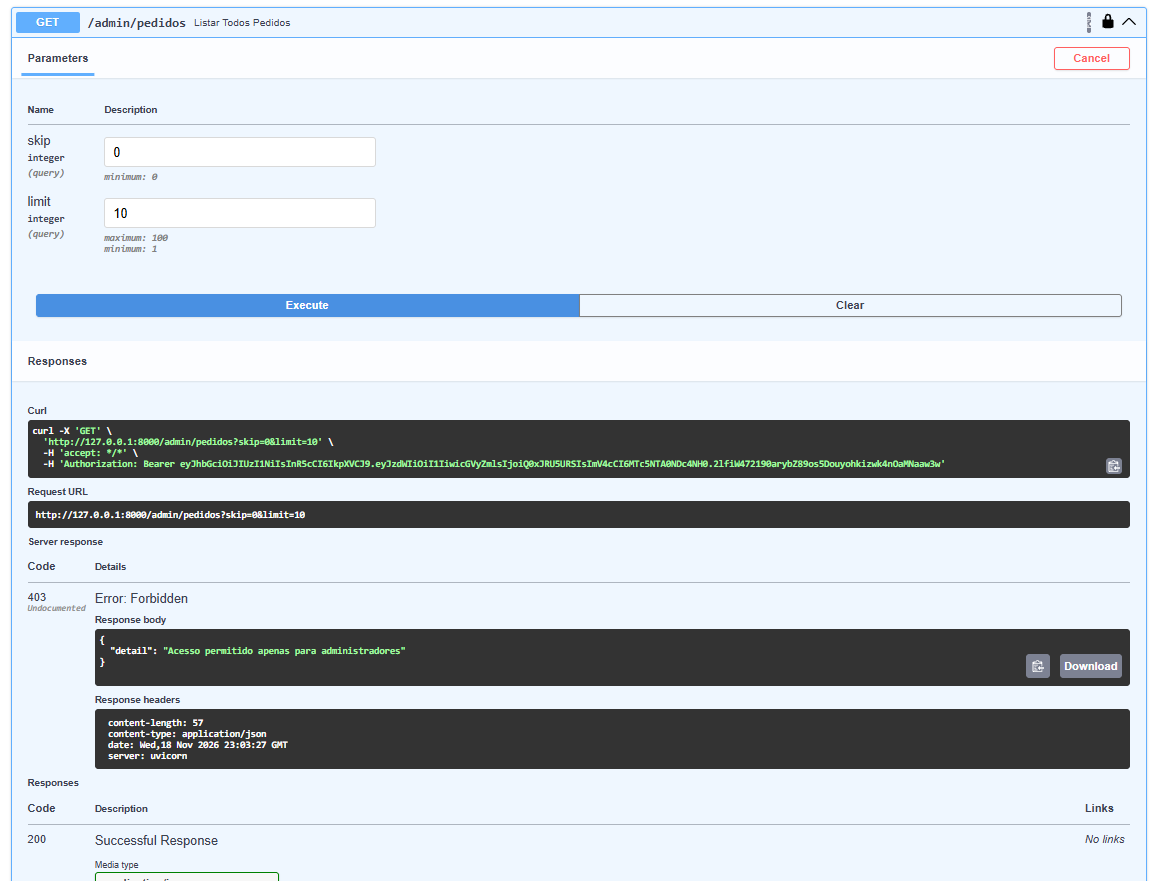
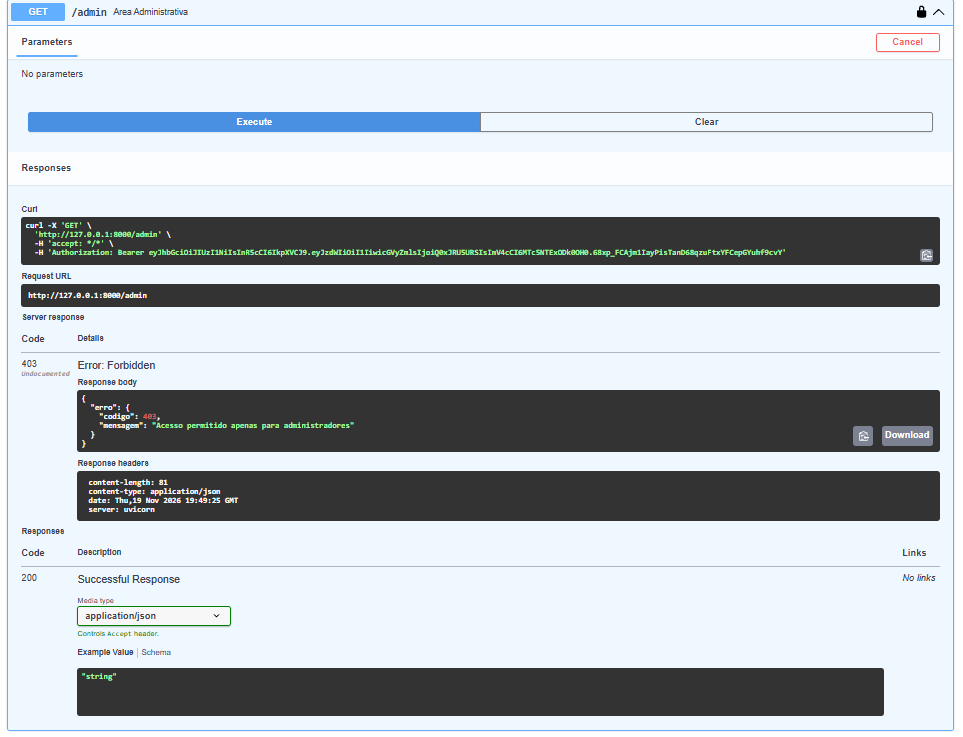
Padronizacao de erros e atualizacao das evidencias de testes

diff --git a/app/main.py b/app/main.py
@@ -22,7 +22,31 @@ app = FastAPI(
     version="1.0.0"
 )
 
+@app.exception_handler(HTTPException)
+def tratar_erro_http(request, exc: HTTPException):
+    return JSONResponse(
+        status_code=exc.status_code,
+        content={
+            "erro": {
+                "codigo": exc.status_code,
+                "mensagem": exc.detail
+            }
+        },
+        headers=exc.headers
+    )
 
+@app.exception_handler(RequestValidationError)
+def tratar_erro_validacao(request, exc: RequestValidationError):
+    return JSONResponse(
+        status_code=422,
+        content={
+            "erro": {
+                "codigo": 422,
+                "mensagem": "Erro de validação dos dados enviados",
+                "detalhes": exc.errors()
+            }
+        }
+    )
 
 
 Base.metadata.create_all(bind=engine)
@@ -831,16 +855,16 @@ def cadastrar_pedido(
         models.Produto.id.in_([item.produto_id for item in dados.itens])
     ).all()
 
-    if len(dados.itens) != len(produtos):
-        raise HTTPException(
-            status_code=404,
-            detail="Um ou mais produtos não encontrados"
-        )
-
     if len(dados.itens) != len(set(item.produto_id for item in dados.itens)):
         raise HTTPException(
             status_code=400,
             detail="Produtos duplicados no pedido"
+        )
+
+    if len(dados.itens) != len(produtos):
+        raise HTTPException(
+            status_code=404,
+            detail="Um ou mais produtos não encontrados"
         )
 
     if any(produto.unidade_id != dados.unidade_id for produto in produtos):

diff --git a/testes api/teste_api.md b/testes api/teste_api.md
@@ -1,0 +1,255 @@
+# Registro de Testes de API — Raízes do Nordeste
+
+## Teste 1 — Login válido de cliente
+
+- **Objetivo:** Verificar se um cliente consegue realizar login com credenciais válidas.
+- **Endpoint:** POST /login
+- **Autenticação:** Não exige token.
+- **Dados utilizados:** E-mail e senha válidos de uma conta CLIENTE.
+- **Resultado esperado:** HTTP 200 e retorno de um token de acesso.
+- **Resultado obtido:** HTTP 200 e retorno dos campos access_token e token_type.
+- **Status:** APROVADO.
+- **Evidência:**
+
+ ![Login Cliente.png](resultados%20api/Login%20Cliente.png)
+
+## Teste 2 — Consulta aos dados do cliente
+
+- **Objetivo:** Verificar se o cliente autenticado consegue consultar seus próprios dados.
+- **Endpoint:** GET /usuarios/me
+- **Autenticação:** Token CLIENTE.
+- **Dados utilizados:** Token válido de uma conta CLIENTE.
+- **Resultado esperado:** HTTP 200 e retorno dos dados do usuário autenticado.
+- **Resultado obtido:** HTTP 200.
+- **Status:** APROVADO.
+- **Evidência:** 
+
+![Consulta do cliente.png](resultados%20api/Consulta%20do%20cliente.png)
+
+## Teste 3 — Consulta às unidades
+
+- **Objetivo:** Verificar se qualquer usuário consegue consultar as unidades cadastradas.
+- **Endpoint:** GET /unidades
+- **Autenticação:** Pública, sem token.
+- **Dados utilizados:** Requisição sem parâmetros obrigatórios.
+- **Resultado esperado:** HTTP 200 e lista de unidades cadastradas.
+- **Resultado obtido:** HTTP 200.
+- **Status:** APROVADO.
+- **Evidência:** 
+
+![Consulta as unidades.png](resultados%20api/Consulta%20as%20unidades.png)
+
+## Teste 4 — Consulta aos produtos
+
+- **Objetivo:** Verificar se qualquer usuário consegue consultar os produtos de uma unidade.
+- **Endpoint:** GET /produtos
+- **Autenticação:** Pública, sem token.
+- **Dados utilizados:** ID de uma unidade cadastrada.
+- **Resultado esperado:** HTTP 200 e lista de produtos da unidade.
+- **Resultado obtido:** HTTP 200.
+- **Status:** APROVADO.
+- **Evidência:** 
+
+![Lista de produtos.png](resultados%20api/Lista%20de%20produtos.png)
+
+## Teste 5 — Consulta aos detalhes de um produto
+
+- **Objetivo:** Verificar se qualquer usuário consegue consultar os detalhes de um produto cadastrado.
+- **Endpoint:** GET /produtos/{produto_id}
+- **Autenticação:** Pública, sem token.
+- **Dados utilizados:** ID de um produto cadastrado.
+- **Resultado esperado:** HTTP 200 e os dados do produto selecionado.
+- **Resultado obtido:** HTTP 200.
+- **Status:** APROVADO.
+- **Evidência:** 
+
+![Busca de produtos.png](resultados%20api/Busca%20de%20produtos.png)
+
+## Teste 6 — Cadastro de pedido válido
+
+- **Objetivo:** Verificar se um cliente autenticado consegue registrar um pedido com produto disponível e estoque suficiente.
+- **Endpoint:** POST /pedidos
+- **Autenticação:** Token CLIENTE.
+- **Dados utilizados:** Unidade 1, produto 1, quantidade 1 e canal APP.
+- **Resultado esperado:** HTTP 201 e confirmação da criação do pedido.
+- **Resultado obtido:** HTTP 201.
+- **Status:** APROVADO.
+- **Evidência:** 
+
+![Cadastro de pedido.png](resultados%20api/Cadastro%20de%20pedido.png)
+
+## Teste 7 — Login de cliente com senha incorreta
+
+- **Objetivo:** Verificar se a API rejeita tentativas de login com senha inválida.
+- **Endpoint:** POST /login
+- **Autenticação:** Pública, sem token.
+- **Dados utilizados:** E-mail válido de cliente e senha incorreta.
+- **Resultado esperado:** HTTP 401, indicando credenciais inválidas.
+- **Resultado obtido:** HTTP 401.
+- **Status:** APROVADO.
+- **Evidência:**
+
+ ![Login cliente com senha incorreta.png](resultados%20api/Login%20cliente%20com%20senha%20incorreta.png)
+
+## Teste 8 — Acesso sem token de autenticação
+
+- **Objetivo:** Verificar se a API bloqueia o acesso de usuários não autenticados a uma rota protegida.
+- **Endpoint:** GET /usuarios/me
+- **Autenticação:** Nenhum token enviado.
+- **Dados utilizados:** Requisição sem credenciais de autenticação.
+- **Resultado esperado:** HTTP 401, indicando acesso não autorizado.
+- **Resultado obtido:** HTTP 401.
+- **Status:** APROVADO.
+- **Evidência:** 
+
+![Acesso sem token.png](resultados%20api/Acesso%20sem%20token.png)
+
+## Teste 9 — Cliente tentando acessar rota administrativa
+
+- **Objetivo:** Verificar se um usuário CLIENTE é impedido de acessar recursos exclusivos do ADMIN.
+- **Endpoint:** GET /admin/pedidos
+- **Autenticação:** Token CLIENTE.
+- **Dados utilizados:** Token válido de uma conta CLIENTE.
+- **Resultado esperado:** HTTP 403, indicando acesso proibido.
+- **Resultado obtido:** HTTP 403.
+- **Status:** APROVADO.
+- **Evidência:**
+
+ ![Acesso admin com cliente.png](resultados%20api/Acesso%20admin%20com%20cliente.png)
+
+## Teste 10 — Cadastro de pedido com quantidade inválida
+
+- **Objetivo:** Verificar se a API rejeita pedidos com quantidade igual a zero.
+- **Endpoint:** POST /pedidos
+- **Autenticação:** Token CLIENTE.
+- **Dados utilizados:** Unidade 1, produto 1, quantidade 0 e canal APP.
+- **Resultado esperado:** HTTP 422, indicando erro de validação.
+- **Resultado obtido:** HTTP 422.
+- **Status:** APROVADO.
+- **Evidência:**
+
+ ![Quantidade invalida.png](resultados%20api/Quantidade%20invalida.png)
+
+## Teste 11 — Pedido com produto inexistente
+
+- **Objetivo:** Verificar se a API rejeita pedidos com a id de um produto inexistente.
+- **Endpoint:** POST /pedidos
+- **Autenticação:** Token CLIENTE.
+- **Dados utilizados:** Unidade 1, produto 99999, quantidade 1 e canal APP.
+- **Resultado esperado:** HTTP 404, indicando produto não encontrado.
+- **Resultado obtido:** HTTP 404.
+- **Status:** APROVADO.
+- **Evidência:**
+
+ ![Pedido com produto inexistente.png](resultados%20api/Pedido%20com%20produto%20inexistente.png)
+
+## Teste 12 — Pedido com unidade inexistente
+
+- **Objetivo:** Verificar se a API rejeita pedidos com a id de uma unidade inexistente.
+- **Endpoint:** POST /pedidos
+- **Autenticação:** Token CLIENTE.
+- **Dados utilizados:** Unidade 99999, produto 1, quantidade 1 e canal APP.
+- **Resultado esperado:** HTTP 404, indicando unidade não encontrada.
+- **Resultado obtido:** HTTP 404.
+- **Status:** APROVADO.
+- **Evidência:** 
+
+![Pedido com unidade inexistente.png](resultados%20api/Pedido%20com%20unidade%20inexistente.png)
+
+## Teste 13 — Pedido com estoque insuficiente
+
+- **Objetivo:** Verificar se a API rejeita pedidos com estoque insuficiente.
+- **Endpoint:** POST /pedidos
+- **Autenticação:** Token CLIENTE.
+- **Dados utilizados:** Unidade 1, produto 1, quantidade 99999 e canal APP.
+- **Resultado esperado:** HTTP 409, indicando que não há estoque suficiente.
+- **Resultado obtido:** HTTP 409.
+- **Status:** APROVADO.
+- **Evidência:**
+
+ ![Estoque insuficiente.png](resultados%20api/Estoque%20insuficiente.png)
+
+## T14 — Pagamento simulado aprovado e conclusão do pedido
+
+- **Objetivo:** Verificar se um pagamento simulado pode ser aprovado e se o pedido percorre corretamente as etapas até a entrega, com o crédito dos pontos de fidelidade.
+- **Endpoints utilizados:**
+  - `POST /pedidos`
+  - `POST /pagamentos`
+  - `PATCH /pedidos/{pedido_id}/status`
+- **Autenticação:**
+  - Token CLIENTE para criar o pedido e realizar o pagamento.
+  - Token ADMIN para atualizar o status do pedido.
+- **Dados utilizados:** Pedido ID 18, unidade 1, produto 1, quantidade 1, canal APP e `simular_recusa: false`.
+- **Resultado esperado:** Criação do pedido com HTTP 201, pagamento aprovado, atualização dos status para EM_PREPARO, PRONTO e ENTREGUE, com crédito dos pontos de fidelidade ao cliente.
+- **Resultado obtido:**
+  - Pedido criado: HTTP 201.
+  - Pagamento aprovado: HTTP 201.
+  - Atualização para EM_PREPARO: HTTP 200.
+  - Atualização para PRONTO: HTTP 200.
+  - Atualização para ENTREGUE: HTTP 200.
+  - Pontos creditados: 12 pontos.
+- **Status:** Aprovado.
+
+**Evidências:**
+
+ ![Pagamento simulado e conclusão do pedido.png](resultados%20api/Pagamento%20simulado%20e%20conclusão%20do%20pedido.png)
+
+## T15 — Pagamento simulado recusado
+
+- **Objetivo:** Verificar se a API consegue simular uma recusa de pagamento e registrar o resultado.
+- **Endpoint:** `POST /pagamentos`
+- **Autenticação:** Token CLIENTE.
+- **Pré-condição:** Pedido 19 cadastrado e com status PENDENTE.
+- **Dados utilizados:** `pedido_id = 19` e `simular_recusa = true`.
+- **Resultado esperado:** HTTP 201 Created, com o pagamento registrado como RECUSADO.
+- **Resultado obtido:** HTTP 201 Created.
+- **Resposta:** Pagamento ID 11, pedido ID 19, valor R$ 12,75, status RECUSADO e gateway MOCK.
+- **Status:** Aprovado.
+
+**Evidências:**
+
+ ![Pagamento simulado recusado.png](resultados%20api/Pagamento%20simulado%20recusado.png)
+
+## T16 — Pedido sem campo obrigatório
+
+- **Objetivo:** Verificar se a API rejeita pedidos sem o preenchimento de campos obrigatórios.
+- **Endpoint:** `POST /pedidos`
+- **Autenticação:** Token CLIENTE.
+- **Dados utilizados:** Unidade 1, produto 1, quantidade 1, sem informar o campo `canal_pedido`.
+- **Resultado esperado:** HTTP 422 Unprocessable Entity, indicando a ausência de um campo obrigatório.
+- **Resultado obtido:** HTTP 422 Unprocessable Entity.
+- **Mensagem:** Campo `canal_pedido` obrigatório não informado (`Field required`).
+- **Status:** Aprovado.
+
+**Evidências:** 
+
+![Pedido sem campo obrigatorio.png](resultados%20api/Pedido%20sem%20campo%20obrigatorio.png)
+
+## T17 — Pedido com tipo de dado inválido
+
+- **Objetivo:** Verificar se a API rejeita dados com tipos incompatíveis com os campos definidos.
+- **Endpoint:** `POST /pedidos`
+- **Autenticação:** Token CLIENTE.
+- **Dados utilizados:** Unidade 1, canal APP, produto 1 e quantidade informada como texto (`"abc"`).
+- **Resultado esperado:** HTTP 422 Unprocessable Entity, indicando incompatibilidade no tipo de dado.
+- **Resultado obtido:** HTTP 422 Unprocessable Entity.
+- **Mensagem:** O campo `quantidade` deveria receber um número inteiro (`int_parsing`).
+- **Status:** Aprovado.
+
+**Evidências:** 
+
+![Pedido com tipo de dado invalido.png](resultados%20api/Pedido%20com%20tipo%20de%20dado%20invalido.png)
+
+## T18 — Consulta administrativa de pedidos
+
+- **Objetivo:** Verificar se um usuário com perfil ADMIN consegue consultar todos os pedidos cadastrados.
+- **Endpoint:** `GET /admin/pedidos`
+- **Autenticação:** Token ADMIN.
+- **Pré-condição:** Usuário autenticado com perfil ADMIN e existência de pedidos cadastrados.
+- **Dados utilizados:** Consulta da lista de pedidos registrados no sistema.
+- **Resultado esperado:** HTTP 200 OK, com a lista de pedidos cadastrados.
+- **Resultado obtido:** retornando uma lista de pedidos com seus respectivos IDs, unidades, usuários, canais, valores, status e informações de fidelidade.
+- **Status:** Aprovado.
+- **Evidências:**
+
+ ![Consulta administrativa de pedidos.png](resultados%20api/Consulta%20administrativa%20de%20pedidos.png)

diff --git a/documentacao_api.md b/documentacao_api.md
@@ -1332,3 +1332,32 @@ As medidas básicas de segurança, validação e documentação foram desenvolvi
 
 Recursos avançados de infraestrutura, observabilidade, auditoria e processamento concorrente foram identificados como melhorias futuras, pois dependem de requisitos adicionais de implantação e operação.
 
+## Padronização e tratamento de erros da API
+
+### Tratamento de exceções
+
+A API utiliza mecanismos de tratamento de exceções do FastAPI para organizar as respostas de erro. As exceções HTTP relacionadas às regras de negócio, à autenticação e às permissões são tratadas por meio de `HTTPException`.
+
+Os erros de validação dos dados recebidos são identificados por `RequestValidationError`, incluindo situações como campos obrigatórios ausentes, tipos de dados inválidos e valores que não atendem às restrições definidas nos schemas.
+
+Os tratadores configurados utilizam `JSONResponse` e adotam uma estrutura básica composta pelos campos `erro`, `codigo` e `mensagem`. Nas respostas HTTP 422, o objeto `erro` também apresenta o campo `detalhes`, contendo informações sobre os campos que não passaram na validação.
+
+Nos erros HTTP tratados, os códigos de status originais são preservados. Quando presentes na exceção, os cabeçalhos HTTP também são mantidos, incluindo `WWW-Authenticate` nos casos de autenticação.
+
+### Códigos HTTP verificados
+
+| Código HTTP | Situação testada | Resultado |
+|---|---|---|
+| 400 — Bad Request | Produtos duplicados no mesmo pedido | Aprovado |
+| 401 — Unauthorized | Token JWT inválido | Aprovado |
+| 403 — Forbidden | Cliente tentando acessar uma rota administrativa | Aprovado |
+| 404 — Not Found | Consulta a produto inexistente | Aprovado |
+| 409 — Conflict | Pedido com estoque insuficiente | Aprovado |
+| 422 — Unprocessable Entity | Quantidade inválida, canal ausente e canal inválido | Aprovado |
+
+### Limitações e melhorias futuras
+
+A padronização foi verificada nos cenários de erros HTTP e de validação descritos acima. Erros inesperados do servidor ainda não possuem um tratamento específico implementado.
+
+As mensagens detalhadas produzidas pelo Pydantic podem permanecer em inglês. Como melhoria futura, poderão ser adotadas mensagens traduzidas e documentação explícita dos modelos de resposta de erro no Swagger/OpenAPI.
+

diff --git a/documentacao_testes.md b/documentacao_testes.md
@@ -284,6 +284,8 @@ utilize o token CLIENTE ao testar essa rota.
 - **Dados enviados:** Unidade ID 1 e produto ID 5, sem o campo `canal_pedido`.
 - **Resultado obtido:** HTTP 422 — Unprocessable Entity.
 - **Conclusão:** Teste aprovado. A API identificou a ausência do campo obrigatório `canal_pedido`.
+-**Resultado esperado:** HTTP 422 — Unprocessable Entity, com identificação da ausência do campo obrigatório canal_pedido.
+-**Verificação após a padronização:** HTTP 422, com os campos erro.codigo, erro.mensagem e erro.detalhes. O tipo de validação retornado foi missing, -indicando que o campo canal_pedido não foi informado.
 
 ### 5.13. Teste negativo — Pedido com tipo de dado inválido
 
@@ -295,6 +297,8 @@ utilize o token CLIENTE ao testar essa rota.
 - **Dados enviados:** Produto ID 5, quantidade informada como texto (`"abc"`).
 - **Resultado obtido:** HTTP 422 — Unprocessable Entity. A validação retornou `int_parsing`, indicando que o texto não pôde ser convertido em número inteiro.
 - **Conclusão:** Teste aprovado. A API rejeitou corretamente o tipo de dado inválido.
+-**Resultado esperado:** HTTP 422, com rejeição do valor textual informado no campo quantidade.
+-**Verificação após a padronização:** HTTP 422, com os campos erro.codigo, erro.mensagem e erro.detalhes. O tipo de validação retornado foi int_parsing.
 
 ### 5.14. Teste administrativo — Consulta de todos os pedidos
 
